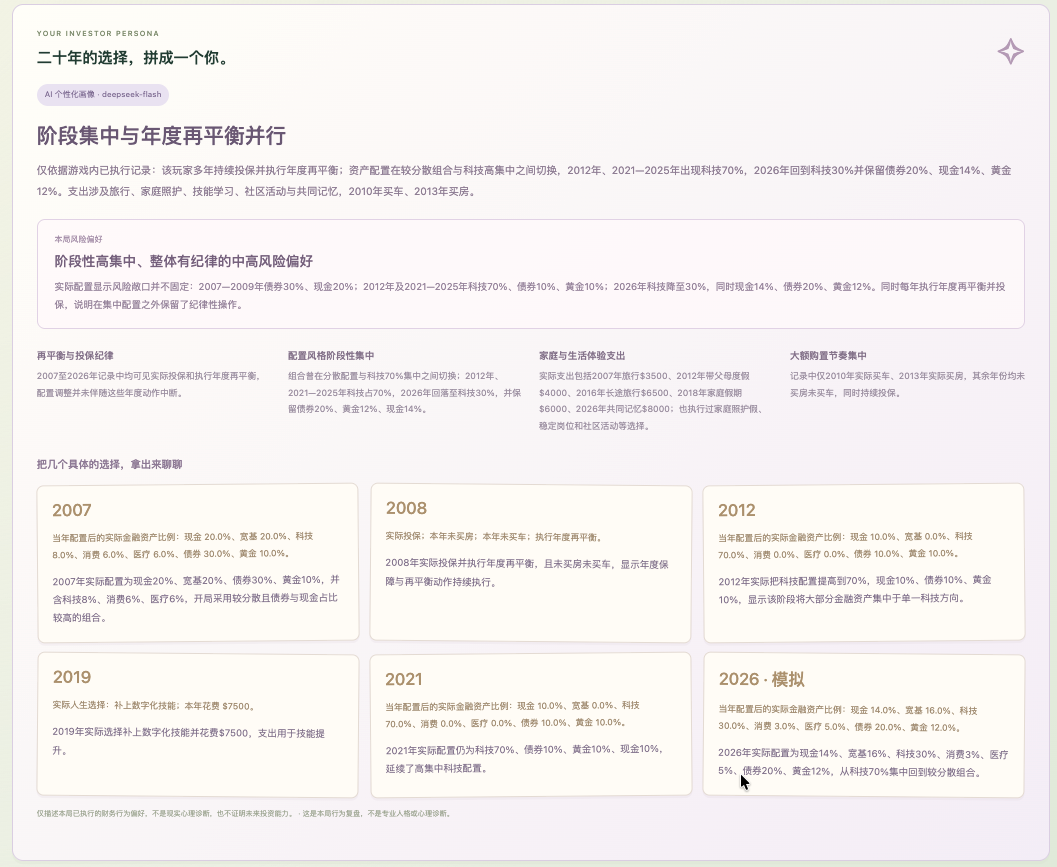
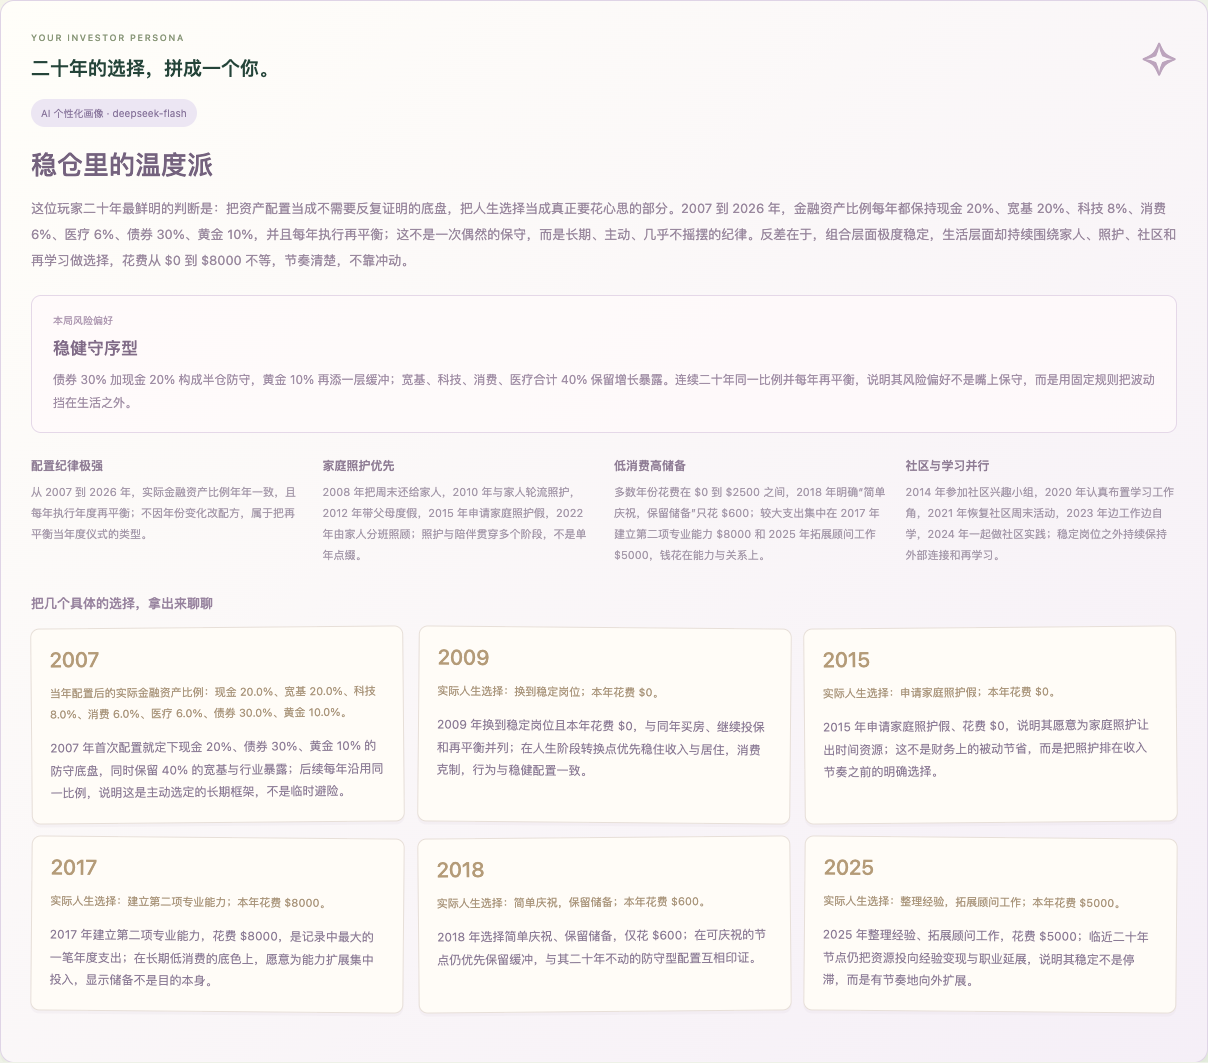
Finalize v1.0 audit, public DeepSeek verification, and illustrated guide

diff --git a/docs/AUDIT.md b/docs/AUDIT.md
@@ -2,7 +2,7 @@
 
 核验日期：2026-11-17。范围：EFUND、DeepSeek、OpenAI 三服务接入、输出限额、界面文案与画像改进，以及既有游戏规则和存档兼容性。
 
-**代码审计通过：158 / 158 项测试、14 项脚本语法检查及 `git diff --check` 全部通过。** 未发现需要修复的实现阻塞。按本次用户授权，v1.0 采用完整模拟二十年、有限次数真实年度与画像调用的验收范围；此前“必须重新完成公网二十年才可打标签”的门槛不再适用。真实调用结果按实际服务和路径单独记录，不扩大为所有服务商都已付费实测。
+**v1.0 审计及本次约定范围验收通过，放行正式 Release 和版本标签。** 158 / 158 项测试、14 项脚本语法检查及 `git diff --check` 全部通过；完整规则旅程、真实年度结算及公开页面真实画像均已验证。按本次用户授权，验收采用完整模拟二十年与限量真实调用，此前“必须重新完成公网二十年才可打标签”的门槛不再适用。真实调用结果按实际服务和路径单独记录。
 
 独立审计 agent 只维护审计测试及本报告，未读取实际密钥、未调用真实模型、未修改实现或执行发布。测试使用假上游和假凭证，真实调用由主 agent 执行。
 
@@ -33,11 +33,13 @@
 
 ## 验证证据与发布意见
 
-**允许按用户授权同步及部署 v1.0。** 完整模拟流程、源码安全及旧存档兼容已通过。GitHub 提交作者按用户要求使用 `liaojs2025`；真实调用范围如下，不将未持有账号的服务写为付费实测通过。
+**允许按用户授权发布 v1.0 正式版。** 完整模拟流程、源码安全及旧存档兼容已通过。GitHub 提交作者按用户要求使用 `liaojs2025`；真实调用范围如下，EFUND、OpenAI 本次仅完成协议与模拟测试。
 
 - 本机 Chrome 完成 20 个规则年度；DeepSeek/deepseek-flash 两次真实年度请求均为 HTTP 200，完成双方结算、封存及刷新恢复，输出分别 561、553 token。`v1-local-result.json` 的总体失败来自 QA 把运行中的画像提示误当错误并关闭浏览器，该次画像已发出，仍计入调用次数。
-- 另两次画像请求均 HTTP 200，但合法跨年比较被旧校验拒绝。修复后独立离线读取已捕获的 `v1-local-persona-final-response-2.json`，配合 `v1-rules-fixture.json` 通过 `requestPersona/validatePersona`：六条真实玩家证据、五个年份，`contextId: persona3-fb2ee585141feb21`。离线复核没有新增网络调用，也不伪称此前浏览器画像已经成功。
-- 截至上述检查，本次实际已发起五个请求：两次年度、两次画像 200、一次 QA 中止画像。总预算为六次，最后一次留给公开页面画像。公开结果待主 agent 回填；EFUND、OpenAI 本次通过协议与模拟测试，未宣称本次真实调用成功。
+- 第三次请求记录画像 HTTP 200 但未保存，现有产物不足以确认具体拒绝原因。第五次请求捕获了合法跨年比较被旧校验拒绝的回答；修复后独立离线读取 `v1-local-persona-final-response-2.json`，配合 `v1-rules-fixture.json` 通过 `requestPersona/validatePersona`：六条真实玩家证据、五个年份，`contextId: persona3-fb2ee585141feb21`。该离线复核没有新增网络调用，也不把第三次失败武断归为同一原因。
+- 第六次、也是最后一次请求在 GitHub Pages 公开页面经中继调用 DeepSeek/deepseek-flash 画像成功。`v1-public-persona-result.json` 为 `passed: true`，HTTP 200，输入 6966、输出 858、总计 7824 token；浏览器至中继没有 Authorization、Cookie 或平台辅助头，无页面异常，390px 无横向溢出。
+- 独立重放 `v1-public-persona-save.json` 并调用 `validatePersona`：双方二十年、20 个规则包、画像为 `model / deepseek-flash`；六条证据分别绑定玩家 2007、2009、2015、2017、2018、2025 年已执行事实，画像逐字恢复，未保存密钥。此次公网真实画像基于已完成的二十年规则旅程，不是公网二十次 AI 年度调用。
+- 本次累计实际发起六个请求后停止：两次年度成功、一次 QA 中止画像、两次 HTTP 200 但未保存的画像、一次公网画像成功。真实付费验证限于 DeepSeek；其他两家通过固定路由、限额、兼容和错误模拟覆盖，没有声称本次真实调用通过。
 
[1 lines of base64/hex data omitted]
 

diff --git a/docs/ASSETS.md b/docs/ASSETS.md
@@ -78,5 +78,5 @@
 ## 游戏手册截图（2026-11-17 · v1.0）
 
 - `docs/images/game-board.png`、`year-review.png`：本项目当前界面的实机截图，使用规则陪练演示，不包含密钥或真实个人账户信息。
-- `docs/images/persona-example.png`：用户提供并授权用于游戏手册展示的人格画像截图，属于一局游戏的输出示例，不保证其他玩家得到相同结果。
+- `docs/images/persona-example.png`：v1.0 正式版的 DeepSeek 画像实机截图，基于二十年规则测试旅程生成；模型输出、事实引用和存档已核验。旧版用户提供的示例保留在 Git 历史中。
 - 未使用的 v0.1 港湾封面已从当前版本删除；生成记录仍可从 Git 历史查看。

diff --git a/docs/GUIDE.md b/docs/GUIDE.md
@@ -87,9 +87,9 @@
 
 已连接模型时可以生成 **AI 个性化画像**；未连接时可先看规则复盘，再点击“连接 AI，生成我的画像”。规则画像与模型画像会分别标识，不会混为一谈。
 
-![玩家提供的人格分析截图示例](images/persona-example.png)
+![DeepSeek 生成的 v1.0 游戏画像示例](images/persona-example.png)
 
-*画像截图由玩家提供。你的标题、分析和证据来自自己的旅程，这是本局行为画像。*
+*本图来自正式版实测，输入为二十年测试旅程；每份画像根据本局选择生成。*
 
 ## 保存进度与时代相册
 

diff --git a/docs/MODULES.md b/docs/MODULES.md
@@ -61,3 +61,5 @@
 - 本次检查、实际模型调用与部署结果由发布负责人补入 [RELEASE](RELEASE.md)，独立复核记录见 [AUDIT](AUDIT.md)。
 
 - 画像支持比较已完成年份：修复末年引用首年配置时的日期误拒，保留事实编号与原文绑定。
+
+- 发布验证：158 项测试与 14 项语法检查通过；限额内共发起 6 次 DeepSeek 请求，完成本机真实年度结算和公网画像，详细分解见 RELEASE/AUDIT。
